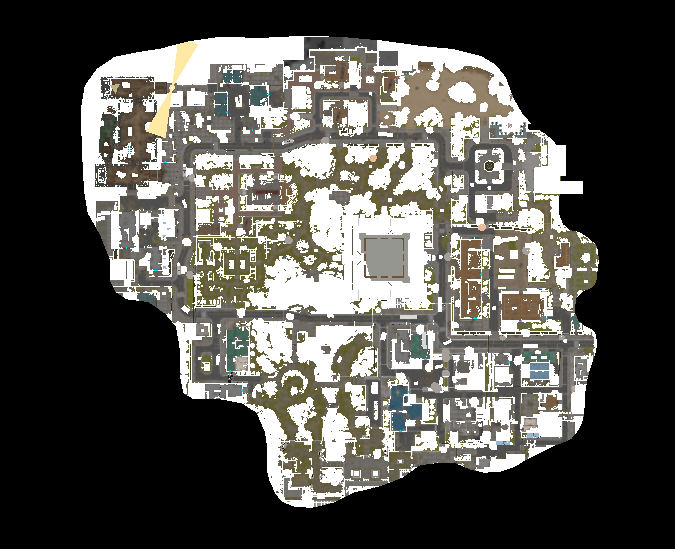
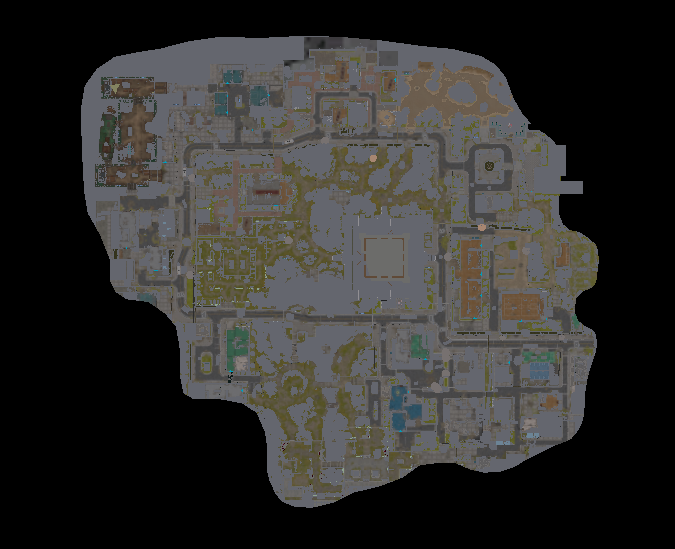
docs: README에 풀디코드 완료상태 반영 + 뷰어 시야(fog)·맵 텍스처
- 상태표: 캐릭터코드·캐릭명·버프타임라인·델타·실제맵 렌더 완료(✅)로 갱신
- 뷰어 5종 섹션 + 파일구조(log_data/delta_timeline/맵에셋) 정리
- replay_er.html 시야(fog of war) + map_bg 텍스처 반영
- 남은 과제: 스킬 이벤트·투사체·글로벌 상태

Claude-Session: https://claude.ai/code/session_01MeLw7T9JCXKRMre2KY5yUM

Changed region(s): [[0.0933, 0.0619, 0.9022, 0.929]]

diff --git a/viewers/replay_er.html b/viewers/replay_er.html
@@ -134,7 +134,7 @@
 <script>
 const TEAM_COLORS=['#4ea1ff','#f87171','#4ade80','#fbbf24','#c084fc','#22d3ee','#fb923c','#f472b6','#a3e635','#e879f9','#2dd4bf','#f59e0b'];
 const TEAM_SIZE=3;
-let TL=null,LOG=null,OBJTYPE={},logP={},AREAS=[],mapImg=null,MAPMETA=null;
+let TL=null,LOG=null,OBJTYPE={},logP={},AREAS=[],mapImg=null,mapImgBright=null,MAPMETA=null;let SIGHT_MULT=2.6,fogOn=true;
 let players=[],others=[];
 let B={minx:0,maxx:1,miny:0,maxy:1};
 let ROT=-138*Math.PI/180; // dakgg 방향(유저 확정 -138°)
@@ -157,7 +157,8 @@ async function load(){
     ]);
     TL=tl;LOG=log;AREAS=areas||[];OBJTYPE=tl.meta.objType||{};logP=(log&&log.players)||{};
     MAPMETA=mm;
-    if(mm){mapImg=new Image();mapImg.src='../data/map_bg.png';await new Promise(res=>{mapImg.onload=res;mapImg.onerror=res;});}
+    if(mm){mapImg=new Image();mapImg.src='../data/map_bg.png';await new Promise(res=>{mapImg.onload=res;mapImg.onerror=res;});
+      mapImgBright=new Image();mapImgBright.src='../data/map_bg_bright.png';await new Promise(res=>{mapImgBright.onload=res;mapImgBright.onerror=res;});}
     document.getElementById('gid').textContent='game '+((log&&log.meta&&log.meta.game)||tl.meta.game||'—');
     prep();buildRoster();buildEvents();fit();draw();renderState();
     document.getElementById('status').textContent=players.length+'명 · '+Object.keys(TL.timeline).length+' 오브젝트 · '+(LOG?'로그 O':'로그 X');
@@ -221,12 +222,20 @@ function logP_maxhp(id){
   const P=logP[id];if(!P||!P.snapshots)return null;
   let mx=0;for(const s of P.snapshots){if(s.stats&&s.stats.MaxHp)mx=Math.max(mx,s.stats.MaxHp);if(s.hp)mx=Math.max(mx,s.hp);}return mx||null;
 }
+function sightAt(id){const P=logP[id];if(!P||!P.snapshots)return 8.5;let sr=8.5;for(const s of P.snapshots){if(s.tick<=cur){if(s.stats&&s.stats.SightRange)sr=s.stats.SightRange;}else break;}return sr;}
 function draw(){
   ctx.clearRect(0,0,W,H);
   const iz=1/Math.sqrt(zoom);
   ctx.save(); ctx.translate(W/2+panx,H/2+pany); ctx.scale(zoom,zoom); ctx.rotate(ROT); ctx.translate(-W/2,-H/2);
   if(mapImg&&MAPMETA){const w=MAPMETA.world;ctx.globalAlpha=.95;
     ctx.drawImage(mapImg, X(w.minx), Y(w.maxz), X(w.maxx)-X(w.minx), Y(w.minz)-Y(w.maxz));ctx.globalAlpha=1;}
+  if(fogOn&&mapImgBright&&MAPMETA){const w=MAPMETA.world,scaleX=(W-2*pad)/(B.maxx-B.minx);
+    ctx.save();ctx.beginPath();let any=false;
+    for(const p of players){const s=stateAt(p.pts,cur);if(!s||s.x===null||(s.hp!=null&&s.hp<=0))continue;
+      const rpx=sightAt(p.id)*scaleX*SIGHT_MULT,cxp=X(s.x),cyp=Y(s.z);
+      ctx.moveTo(cxp+rpx,cyp);ctx.arc(cxp,cyp,rpx,0,7);any=true;}
+    if(any){ctx.clip();ctx.drawImage(mapImgBright,X(w.minx),Y(w.maxz),X(w.maxx)-X(w.minx),Y(w.minz)-Y(w.maxz));}
+    ctx.restore();}
   if(window.__dbg){const DBG=[['모래사장',-166.9,-39.8,'#ff3b3b'],['병원',181.8,-14.3,'#3bff6b'],['항구',31.7,-209.9,'#3b9bff'],['골목',24,252.3,'#ffd43b']];
     ctx.textAlign='center';for(const [n,x,z,c] of DBG){const ax=X(x),az=Y(z);ctx.fillStyle=c;ctx.beginPath();ctx.arc(ax,az,5,0,7);ctx.fill();ctx.fillStyle='#fff';ctx.font='11px sans-serif';ctx.fillText(n,ax,az-9);}}
   ctx.strokeStyle=mapImg?'#ffffff08':'#161b24';ctx.lineWidth=1;

diff --git a/README.md b/README.md
@@ -1,50 +1,68 @@
 # secret_replay — Eternal Return `.er` 리플레이 포맷 리버싱
 
-이터널 리턴(Eternal Return) 공식 리플레이 파일 `.er`의 바이너리 포맷을 리버스 엔지니어링하고 디코더를 구현한 작업물.
+이터널 리턴(Eternal Return) 공식 리플레이 파일 `.er`의 바이너리 포맷을 리버스 엔지니어링하고, 디코더 + 시각화 뷰어까지 구현한 작업물.
 
-> **정적 분석만** 사용. 게임 프로세스 메모리 덤프·안티치트 우회 없음. 리플레이 데이터 읽기 용도
+> 리플레이 데이터 읽기 용도. 안티치트 우회·실시간 게임 조작 없음.
 
 ## 핵심 결론
 
 `.er` 레코드 payload = **Brotli 압축 → MemoryPack 직렬화**
 
 - 이전엔 "커스텀 비트팩·해독 불가"로 오판됐음 — 실제로는 **Brotli(magic 바이트 없어 압축 감지 우회됨) + MemoryPack(Cysharp 오픈소스)** 조합.
-- IL2CppDumper 출력(`CharacterStatusSnapshot : IMemoryPackable`, `[MemoryPackOrder]`)으로 정체 판명.
-- 압축 해제하면 `gameId`·좌표·HP가 그대로 읽힘.
+- IL2CppDumper 출력(`CharacterStatusSnapshot : IMemoryPackable`, `[MemoryPackOrder]`)으로 정체 판명 + 필드 순서 확보.
+- 압축 해제하면 `gameId`·좌표·HP·스탯이 그대로 읽히고, **캐릭터·버프·레벨·사망까지 시계열로 복원**됨.
+
+## 완료 상태 (풀 디코드 + 뷰어)
+
+| 항목 | 상태 |
+|---|---|
+| 포맷 (Brotli+MemoryPack) | ✅ 확정 |
+| 컨테이너 (ReplaySnapshot→GameSnapshot→userList) | ✅ gameId/seq/24명 일치 |
+| **위치** | ✅ 실제 맵 정렬 (dakgg 대조 오차 중앙 0.43 그리드) |
+| **HP·SP·레벨·실드·extraPoint** | ✅ per-tick 스냅샷 |
+| **characterCode·캐릭터명** | ✅ (예: 74=다르코) — 前 블로커 해결 |
+| **버프 타임라인** | ✅ `buff_gain`/`buff_lose` 2,748건 (버프코드 + tick) |
+| **레벨업·사망 이벤트** | ✅ `levelup` 336 · `death` 57 |
+| **델타 60Hz → 위치/HP 타임라인** | ✅ `delta_timeline.json` (프레이밍·byte-align 해독) |
+| **실제 맵 렌더** | ✅ Unity `Game.unity` → `DetailedMap.glb` 월드좌표 정렬 + 시야(fog of war) |
+| string 인코딩 | ✅ `[~utf8len][utf16len][utf8]` |
+| union (SnapshotWrapper) | ✅ 0x07=Full/0x04=Basic, objectType 판별 |
+| 스킬 사용 이벤트 | ◑ 타임라인 미추출 (버프/레벨/사망만 이벤트화) |
+| 투사체 조준좌표 / 글로벌 상태 | ⛔ 미해석 |
+
+## 시각화 뷰어 (`viewers/`, 자립형 HTML)
+
+| 파일 | 내용 |
+|---|---|
+| `replay_er.html` | **2D 리플레이** — 실제 맵 배경 + 24명 이동/HP 재생, 회전 정렬, 위치 보간, 시야(fog), 줌/팬, 3인 팀 |
+| `replay_3d.html` | **3D 뷰어** — three.js + `DetailedMap.glb` 위 궤적 재생 |
+| `replay_minimap.html` | 미니맵 스타일 재생 |
+| `data_compare.html` | 원본 payload ↔ 해석 결과 대조 |
+| `verify_replay.html` | 독립 검증(나란히 보기) |
 
 ## 파일 구조
 
-| 폴더 | 내용 |
+| 폴더/파일 | 내용 |
 |---|---|
 | `docs/er-replay-format.md` | **완전 포맷 레퍼런스** — 파일 레이아웃, 레코드 프레이밍, Brotli, MemoryPack 와이어 포맷, 컨테이너 계층, 엔티티 레이아웃, 좌표 변환, 바이트 예제 |
 | `decoder/er_decode.py` | 메인 디코더 (프레이밍 → Brotli → MemoryPack → 엔티티 위치/HP/스탯) |
 | `decoder/` | MemoryPack 파서·스키마 추출·좌표 추출 스크립트 |
 | `schema/schema.json` | dump.cs에서 추출한 976개 MemoryPackable 클래스 스키마 |
 | `schema/mempack_meta.json` | union 태그맵 + 필드 오프셋 (경험적 확정분) |
+| `data/log_data.json` | 24명 시계열 — 캐릭터·per-tick 스냅샷(hp/sp/level/shield) + 이벤트(버프·레벨업·사망) |
+| `data/delta_timeline.json` | 델타 디코드 결과 — 오브젝트별 `[tick, x, z, hp]` 타임라인 |
 | `data/er_dense_traj.json` | 24명 궤적 (그리드좌표, HP) |
-| `viewers/*.html` | 자립형 시각화 (미니맵 재생 / 원본-해석 대조 / 독립검증 나란히보기) |
+| `data/names.json` | 코드↔이름 매핑 |
+| `data/DetailedMap.glb` · `map_*.png` | 실제 루미아 맵(3D) + 미니맵/탑다운/시야 텍스처 |
+| `viewers/*.html` | 자립형 시각화 (위 표) |
+| `unity_export/` | Unity에서 맵을 GLB로 뽑는 익스포터 + 절차 |
 | `research/` | 리버싱 과정 스크립트 + 발견 노트 |
 
-## 검증 상태
+## 남은 과제
 
-| 항목 | 상태 |
-|---|---|
-| 포맷 (Brotli+MemoryPack) | ✅ 확정 |
-| 컨테이너 (ReplaySnapshot→GameSnapshot→userList) | ✅ gameId/seq/24명 일치 |
-| **위치** | ✅ 1608 샘플, 오차 중앙 **0.43 그리드** (dakgg 대조) |
-| **HP** | ✅ 24/24 정확 |
-| SP·레벨·실드·이동속도 | ✅ 추출됨 |
-| string 인코딩 | ✅ `[~utf8len][utf16len][utf8]` |
-| union (SnapshotWrapper) | ✅ 경험적 (0x07=Full/0x04=Basic, objectType 판별) |
-| 델타 패킷 구조 | ◑ 프레이밍 해독(`[0x05][tick][count][records]`, fieldTag 0x02=위치), 클린 워크 미완 |
-| 깊은 플레이어 필드 (characterCode·스킬·버프) | ⛔ 권위 `[MemoryPackOrder]` 추출 블로커 (아래) |
-| 투사체 조준좌표 / 글로벌 상태 | ⛔ 동일 블로커 |
-
-## 남은 블로커
-
-깊은 중첩 필드·클린 델타 워크·투사체·글로벌 상태는 **권위있는 `[MemoryPackOrder]`/union `typeof` 맵**이 필요.
-- pure-python `dnfile`로 24MB 어셈블리의 484,704개 CustomAttribute를 예산 내 다 해석 못 함.
-- **해결경로**: 더 빠른 .NET 메타데이터 리더(ILSpy/monodis/ildasm) 또는 `#~`/`#Blob` 테이블 raw 파싱(대상 ~50 타입만, ctor 토큰 정수필터) → 필드순서 확보 → `er_decode.py`에 주입.
+핵심 디코드(위치·HP·스탯·캐릭터·버프·델타)와 시각화는 완료. 남은 것:
+- **스킬 사용 이벤트** — 스냅샷엔 상태만 있고 스킬 발동은 별도 커맨드/델타 필드로 추정, 타임라인 미추출.
+- **투사체 조준좌표 / 글로벌 상태** — 해당 MemoryPack 타입의 깊은 필드 미해석.
 
 ## 좌표계
 
@@ -53,8 +71,9 @@
 gridX = -1.645*(x + z) + 290.1
 gridY = -1.653*x + 1.652*z + 555.0
 ```
+3D 뷰어는 월드좌표를 그대로 사용(맵 GLB와 동일 공간, x축 부호만 flip).
 
 ## 리플레이 취득
 
 - **dakgg** (무인증): `er.dakgg.io/api/v1/rpc/replay?gameId=X` → `.bin` (AES-128-CBC 키=IV=0) — 닥지지 재가공 포맷
-- **공식 `.er`** (세션 인증): `ReplayApi.FindReplayGame` → `bser-rest-release.bser.io/api/external/findReplayGame/{gameId}/{userNum}` — 게임사 비공개 API (ToS 주의)
+- **공식 `.er`** (세션 인증): `ReplayApi.FindReplayGame` → `bser-rest-release.bser.io/api/external/findReplayGame/{gameId}/{userNum}` — 게임사 비공개 API
